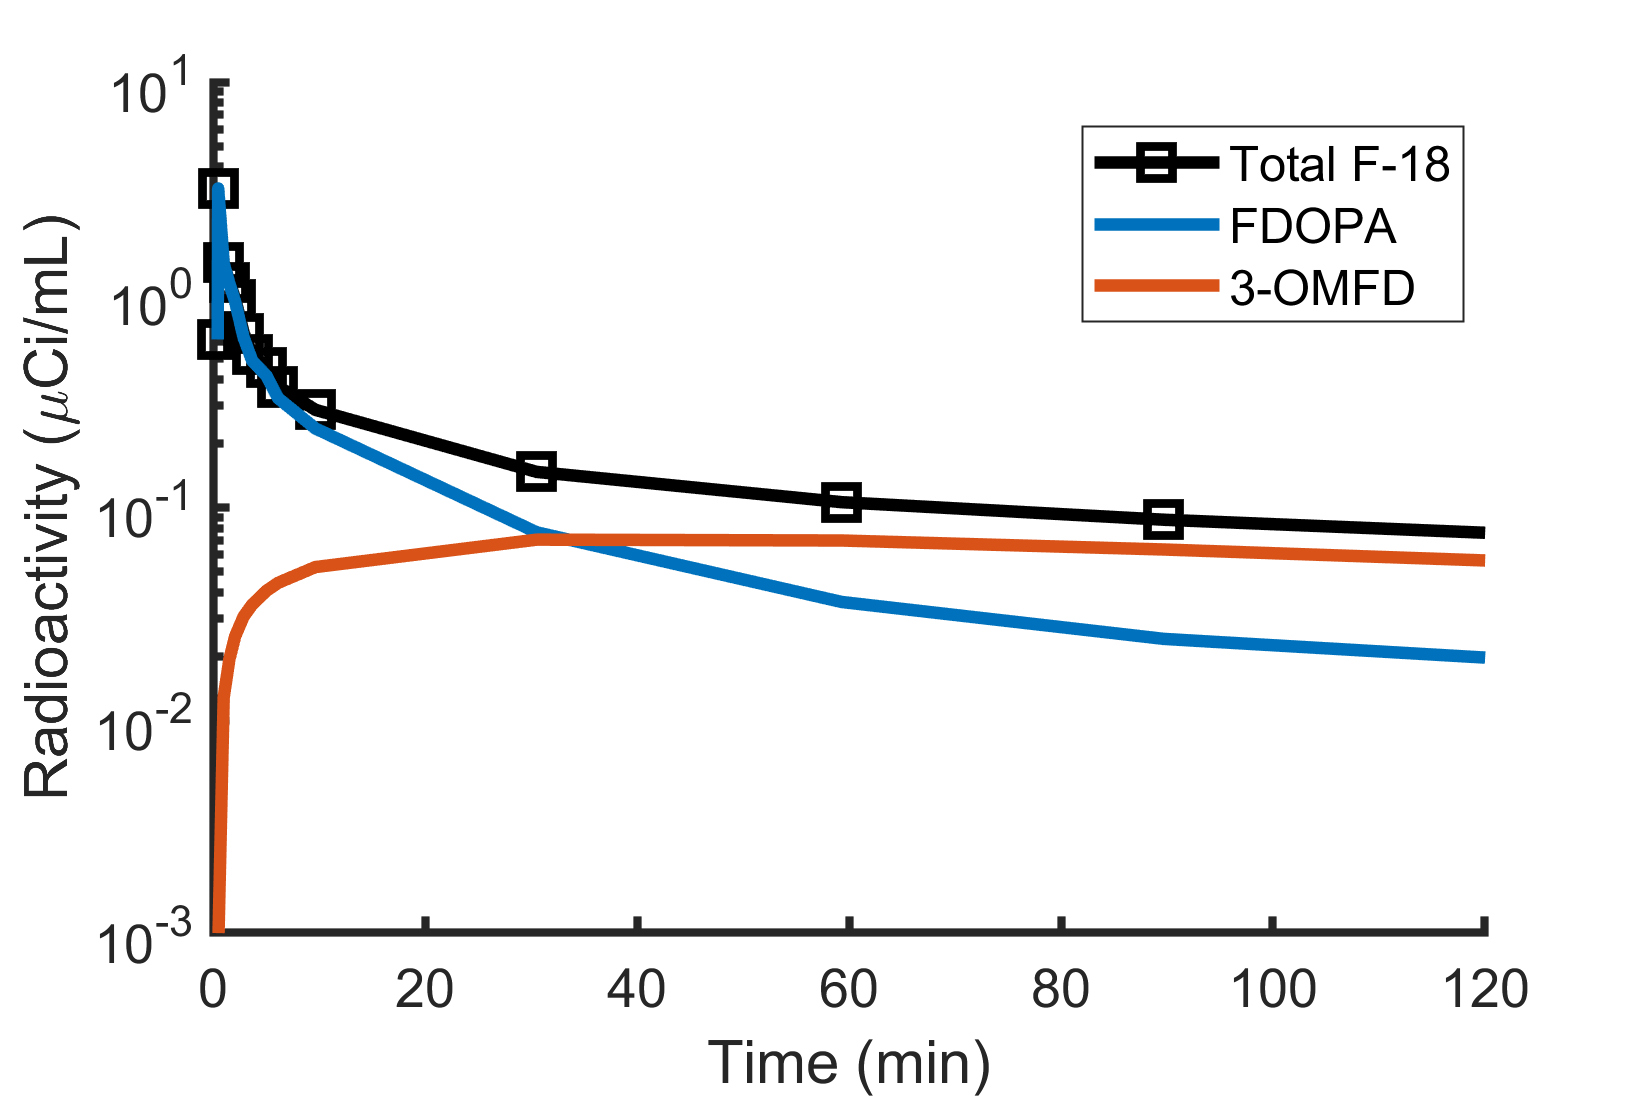
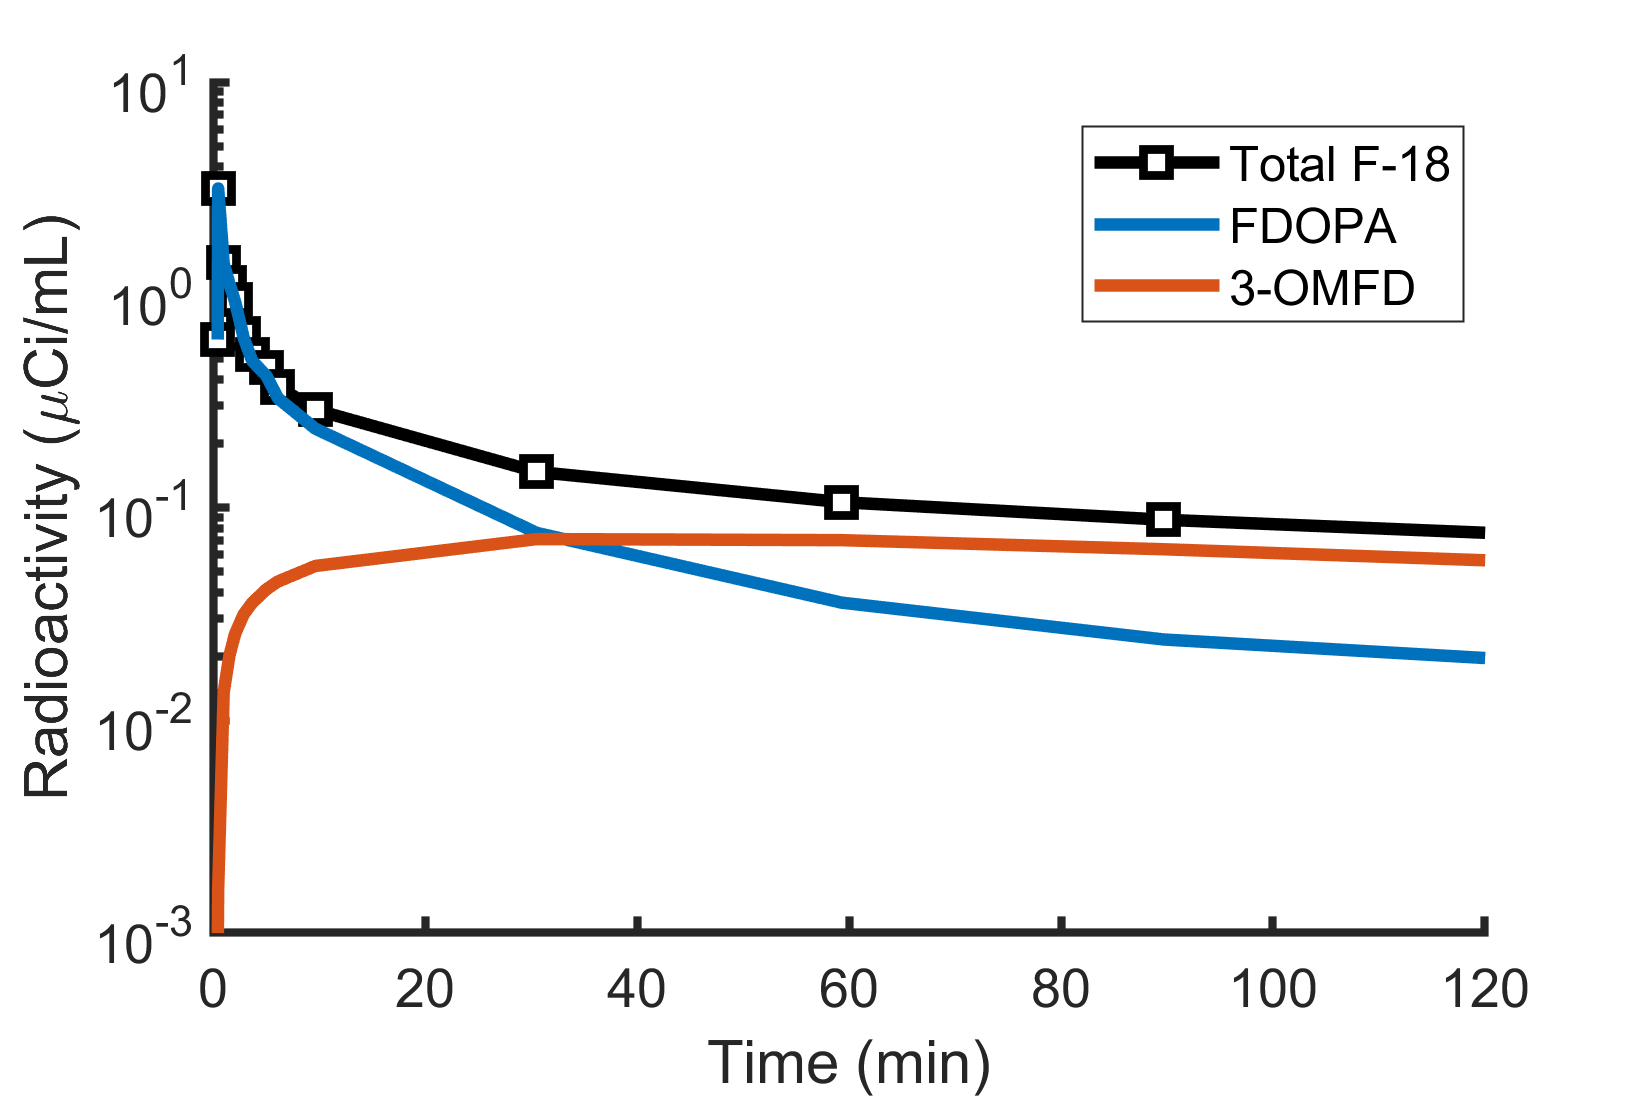
Middle of FIgure 6B implementation

diff --git a/swain_corban_huang.m b/swain_corban_huang.m
@@ -3,11 +3,12 @@ function swain_corban_huang
 function main
     cleanup; % close all;
     corban_figure_defaults;
-    figstosim = 4:5;
+    figstosim = 4:6;
     for i = figstosim
-       fh = makefigure(figures{i}());
-       figure(fh)
-       savefig(fh);
+        fprintf('Running Figure %d', i);
+        fh = makefigure(figures{i}());
+        figure(fh)
+        savefig(fh);
     end
 end
 
@@ -34,28 +35,20 @@ Cc_fig6.y = csv.data(:, 2);
 
 %% Figures
 
-figures{1} = @testfig1;
-    function testfig1
-        Cf18_source = Cf18_fig3;
-        setupfig(2, ' Test');
-        t2 = linspace(Cf18_source.t(1),Cf18_source.t(end),10000);
-        plot(log(Cf18_source.t),Cf18_source.y,'k.',log(t2),Cf18(t2),'-r');
-    end
-
 figures{4} = @fig4;
     function fs =  fig4
         fignum = 4;
-        params0 = [0.0110, 0.025, 0.0105];
         Cf18_source = Cf18_fig3;
+        t = omfdfrac_fig4.t; y = omfdfrac_fig4.y;
         function omfdfrac = modelfun(p, t)
             Comfd = modelfun_omfd(p, t, 1);
             omfdfrac = Comfd ./ Cf18(t);
         end
-        t = omfdfrac_fig4.t; y = omfdfrac_fig4.y;
+        params0 = [0.0110, 0.025, 0.0105];
         loadin = true;
         varname = 'fit_params'; 
         filename = 'omfd_fit_params_cache.mat';
-        if loadin            
+        if loadin && isfile(filename)
             load(filename, varname);            
         else
             fit_params = nlinfit(t, y, @modelfun, params0, getfitopts);
@@ -71,7 +64,7 @@ figures{4} = @fig4;
         ps.xlim = [0 120]; ps.ylim = [0 1];
         ps.xlabel = 'Time (min)'; ps.ylabel = '3-OMFD Fraction';
         ps.legend = {'Fitting Result', 'Measured Data'};
-        ps.legend_loc = 'east';
+        ps.legend_loc = 'southeast';
         ps.linespec = {'-','ko'};
         ps.markersize{2} = 10; 
         ps.cycle_len = 1;
@@ -87,9 +80,11 @@ figures{5} = @fig5;
         fignum = 5;
         fit_params = omfd_fit_params;
         Cf18_source = Cf18_fig5;
-        t = Cf18_fig5.t(2:end);
+        t = Cf18_fig5.t;
         Comfd = modelfun_omfd(fit_params, t, 1);
         Cfdopa = Cf18(t) - Comfd;
+        Comfd_source = struct('t', t, 'y', Comfd);
+        Cfd_source = struct('t', t, 'y', Cfdpoa);
         ps.x = {Cf18_fig5.t, t, t};
         ps.y = {Cf18_fig5.y, Cfdopa, Comfd};
         ps.xlim = [0 120]; ps.ylim = [0.001 10];
@@ -100,12 +95,66 @@ figures{5} = @fig5;
         ps.legend = {'Total F-18', 'FDOPA', '3-OMFD'};
         ps.cycle_len = 1;
         ps.linespec = {'ks-','-','-'};
-        ps.markersize = {10, [], []};
+        ps.markerfacecolor = {'w',[],[]};
+        ps.markersize = {8, [], []};
         fs.n = fignum;
         fs.position = [526 612 525 351];
         fs.title = sprintf('%d - Plasma Time-Activity Curves', ...
             fignum);
         fs.plots = {ps};
+    end
+
+figures{6} = @fig6;
+    function fs = fig6
+        fignum = 6;
+        p1 = 1.01; p2 = 1.08;
+        Cwb = @(t) p1 * 0.6 * Cfd(t) + p2 * Comfd(t);
+        Cbackground = @(t) 0.05 * Cwb(t);
+        function stri_activity = modelfun_s(p, t)
+            p = [p, 0];
+            C = modelfun_striatum(p, t);
+            stri_activity = sum(C, 2) + Cbackground(t);
+        end
+        function cere_activity = modelfun_c(p, t)
+            C = modelfun_cerebellum(p, t);
+            cere_activity = sum(C, 2) + Cbackground(t);
+        end
+        n = 1;
+        t{n} = Cs_fig6.t; y{n} = Cs_fig6.y;
+        modelfun{n} = @modelfun_s;
+        params0{n} = [0.0283, 0.0228, 0.0124];  
+        n = 2;
+        t{n} = Cc_fig6.t; y{n} = Cc_fig6.y;
+        modelfun{n} = @modelfun_c;
+        params0{n} = [0.0352, 0.0569]; 
+        for i = 1:n
+            fit_params{i} = nlinfit(t{i}, y{i}, modelfun{i}, ...
+                params0{i}, getfitopts);
+            fit_params{i} = abs(fit_params{i});
+        end
+        
+        ps.xlim = [0 120]; ps.ylim = [0 0.3];
+        ps.grid = 'off';
+        ps.xlabel = 'Time (min)'; 
+        ps.ylabel = 'Radioactivity (\muCi/mL)';
+        ps.legend = {'Total F-18', 'FDOPA', '3-OMFD'};
+        ps.cycle_len = 1;
+        ps.linespec = {'ks-','-','-'};
+        ps.markerfacecolor = {'w',[],[]};
+        ps.markersize = {8, [], []};
+        fs.n = fignum;
+        fs.position = [526 612 525 351];
+        fs.title = sprintf('%d - Plasma Time-Activity Curves', ...
+            fignum);
+        fs.plots = {ps};
+    end
+
+figures{7} = @testfig1;
+    function testfig1
+        Cf18_source = Cf18_fig3;
+        setupfig(2, ' Test');
+        t2 = linspace(Cf18_source.t(1),Cf18_source.t(end),10000);
+        plot(log(Cf18_source.t),Cf18_source.y,'k.',log(t2),Cf18(t2),'-r');
     end
 
 main;
@@ -287,6 +336,8 @@ if iscell(ps.x) && iscell(ps.y)
             end
         end             
         % FIXME - Implement linespec like markersize
+        % FIXME - maybe functionalize this more? Be able to take in shorter
+        % cell arrays then vars.
         p = plot(ps.x{i}, ps.y{i}, ps.linespec{cycle});
         fieldname = 'markersize';
         if isf(fieldname)
@@ -295,7 +346,14 @@ if iscell(ps.x) && iscell(ps.y)
                 p.MarkerSize = sizespec;
             end
         end
-            
+        fieldname = 'markerfacecolor';  
+        if isf(fieldname)
+            colorspec = ps.(fieldname){i};
+            if ~isempty(colorspec)
+                p.MarkerFaceColor = colorspec;
+            end
+        end
+        
     end
 else
     if iscell(ps.x) || iscell(ps.y)
